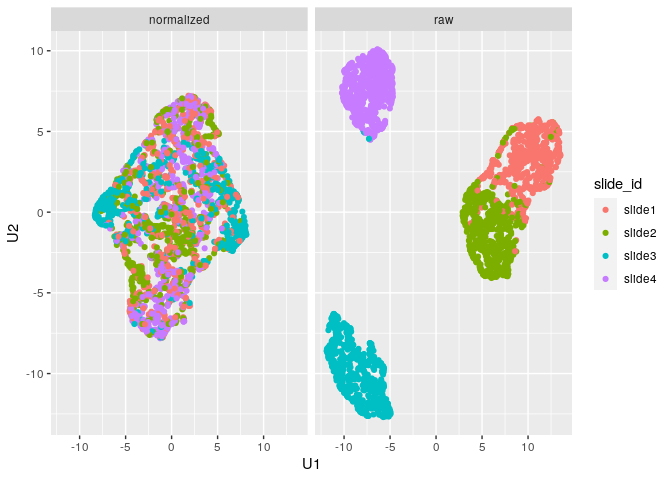
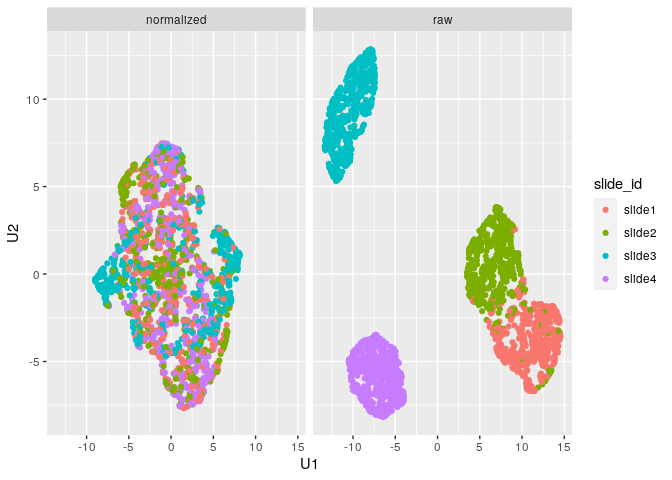
finished fixes for CRAN

diff --git a/README.md b/README.md
@@ -13,7 +13,9 @@
 
 A package designed to handle multiplexed imaging data in R, implementing
 normalization methods and quality metrics detailed in our paper
-[here](https://doi.org/10.1101/2021.07.16.452359).
+[here](https://doi.org/10.1101/2021.07.16.452359). Further information
+about the package, usage, the vignettes, and more can be found on
+[CRAN](https://cran.r-project.org/package=mxnorm).
 
 # Installation
 
@@ -56,7 +58,7 @@ mx_dataset = mx_dataset(data=mx_sample,
                         metadata_cols=c("metadata1_vals"))
 ```
 
-WE can use the built-in `summary()` function to observe `mx_dataset`
+We can use the built-in `summary()` function to observe `mx_dataset`
 object:
 
 ``` r
@@ -75,20 +77,7 @@ mx_norm = mx_normalize(mx_data = mx_dataset,
                        method="None")
 ```
 
-The `mx_dataset` object has normalized data in the following form:
-
-``` r
-head(mx_norm$norm_data)
-#>   slide_id image_id marker1_vals marker2_vals marker3_vals metadata1_vals
-#> 1   slide1   image1    0.1991146    0.1553918   0.18315112            yes
-#> 2   slide1   image1    0.1082691    0.2294791   0.21339780             no
-#> 3   slide1   image1    0.1328231    0.1389272   0.11549488            yes
-#> 4   slide1   image1    0.1082691    0.1865590   0.23245192            yes
-#> 5   slide1   image1    0.1328231    0.2156384   0.13923749            yes
-#> 6   slide1   image1    0.1082691    0.1553918   0.07725425            yes
-```
-
-And we can use `summary()` to capture the following attributes for the
+And we again use `summary()` to capture the following attributes for the
 `mx_dataset` object:
 
 ``` r
@@ -119,48 +108,25 @@ mx_otsu = run_otsu_discordance(mx_norm,
                         plot_out = FALSE)
 ```
 
-This adds an Otsu misclassification table to the `mx_dataset` object in
-the following form:
+We can also begin to visualize these results using some of `mxnorm`’s
+plotting features built using `ggplot2`.
+
+First, we can visualize the densities of the marker values as follows:
 
 ``` r
-head(mx_otsu$otsu_data)
-#>   slide_id       marker table slide_threshold marker_threshold
-#> 1   slide1 marker1_vals   raw        12.01758         54.89844
-#> 2   slide2 marker1_vals   raw        20.01367         54.89844
-#> 3   slide3 marker1_vals   raw        87.05664         54.89844
-#> 4   slide4 marker1_vals   raw        44.00391         54.89844
-#> 5   slide1 marker2_vals   raw        19.00977         52.90039
-#> 6   slide2 marker2_vals   raw        19.99219         52.90039
-#>   discordance_score
-#> 1         0.4506667
-#> 2         0.4306667
-#> 3         0.2573333
-#> 4         0.3386667
-#> 5         0.5333333
-#> 6         0.5320000
+plot_mx_density(mx_otsu)
 ```
 
-And we can use `summary()` to capture the following attributes for the
-`mx_dataset` object:
+<img src="man/figures/README-mx_dens-1.png" width="100%" />
+
+We can also visualize the results of the Otsu misclassification analysis
+stratified by slide and marker:
 
 ``` r
-summary(mx_otsu)
-#> Call:
-#> `mx_dataset` object with 4 slide(s), 3 marker column(s), and 1 metadata column(s)
-#> 
-#> Normalization:
-#> Data normalized with transformation=`log10_mean_divide` and method=`None`
-#> 
-#> Anderson-Darling tests:
-#>       table mean_test_statistic mean_std_test_statistic mean_p_value
-#>  normalized              34.565                  24.111            0
-#>         raw              32.490                  22.525            0
-#> 
-#> Threshold discordance scores:
-#>       table mean_discordance sd_discordance
-#>  normalized            0.054          0.071
-#>         raw            0.373          0.141
+plot_mx_discordance(mx_otsu)
 ```
+
+<img src="man/figures/README-mx_misc-1.png" width="100%" />
 
 ## UMAP dimension reduction with `run_reduce_umap()`
 
@@ -177,54 +143,26 @@ mx_umap = run_reduce_umap(mx_otsu,
                         metadata_col = "metadata1_vals")
 ```
 
-This adds UMAP dimensions to our `mx_dataset` object in the following
-form (note the inclusion of `slide_id` as an identifier, which we’ll use
-later):
+We can further visualize the results of the UMAP dimension reduction as
+follows:
 
 ``` r
-head(mx_umap$umap_data)
-#>      marker1_vals marker2_vals marker3_vals metadata1_vals slide_id table
-#> 2586           43           85           97            yes   slide4   raw
-#> 2616           39           72           63             no   slide4   raw
-#> 1504           93           97           63            yes   slide3   raw
-#> 1509           93           95           25             no   slide3   raw
-#> 2032           91           93           51            yes   slide3   raw
-#> 870            18           26           32            yes   slide2   raw
-#>              U1         U2
-#> 2586  -7.537530   9.394702
-#> 2616  -6.266718   5.396670
-#> 1504 -10.915295  -8.767233
-#> 1509  -5.559124 -12.020211
-#> 2032  -9.367096 -10.209445
-#> 870    3.689826  -2.340548
+plot_mx_umap(mx_umap,metadata_col = "metadata1_vals")
 ```
 
-And we can use `summary()` to capture the following attributes for the
-`mx_dataset` object:
+<img src="man/figures/README-mx_umap-1.png" width="100%" />
+
+Note that since the sample data is simulated, we don’t see separation of
+the groups like we would expect with biological samples that have some
+underlying correlation. What we can observe, however, is the separation
+of slides in the `raw` data and subsequent mixing of these slides in the
+`normalized` data:
 
 ``` r
-summary(mx_umap)
-#> Call:
-#> `mx_dataset` object with 4 slide(s), 3 marker column(s), and 1 metadata column(s)
-#> 
-#> Normalization:
-#> Data normalized with transformation=`log10_mean_divide` and method=`None`
-#> 
-#> Anderson-Darling tests:
-#>       table mean_test_statistic mean_std_test_statistic mean_p_value
-#>  normalized              34.565                  24.111            0
-#>         raw              32.490                  22.525            0
-#> 
-#> Threshold discordance scores:
-#>       table mean_discordance sd_discordance
-#>  normalized            0.054          0.071
-#>         raw            0.373          0.141
-#> 
-#> Clustering consistency (UMAP):
-#>       table adj_rand_index cohens_kappa
-#>  normalized          0.058        0.063
-#>         raw          0.627       -0.151
+plot_mx_umap(mx_umap,metadata_col = "slide_id")
 ```
+
+<img src="man/figures/README-mx_umap_slide-1.png" width="100%" />
 
 ## Variance components analysis with `run_var_proportions()`
 
@@ -236,20 +174,6 @@ the slide level, as follows:
 mx_var = run_var_proportions(mx_umap,
                              table="both",
                              metadata_cols = "metadata1_vals")
-```
-
-This adds UMAP dimensions to our `mx_dataset` object in the following
-form:
-
-``` r
-head(mx_var$var_data)
-#>    proportions    level       marker table
-#> 1:  0.97044681    slide marker1_vals   raw
-#> 2:  0.02955319 residual marker1_vals   raw
-#> 3:  0.97344941    slide marker2_vals   raw
-#> 4:  0.02655059 residual marker2_vals   raw
-#> 5:  0.87733930    slide marker3_vals   raw
-#> 6:  0.12266070 residual marker3_vals   raw
 ```
 
 And we can use `summary()` to capture the following attributes for the
@@ -275,57 +199,14 @@ summary(mx_var)
 #> 
 #> Clustering consistency (UMAP):
 #>       table adj_rand_index cohens_kappa
-#>  normalized          0.058       -0.115
-#>         raw          0.874       -0.263
+#>  normalized          0.063       -0.055
+#>         raw          0.629       -0.174
 #> 
 #> Variance proportions (slide-level):
 #>       table  mean    sd
 #>  normalized 0.001 0.001
 #>         raw 0.940 0.055
 ```
-
-# Visualizations
-
-We can also begin to visualize these results using some of `mxnorm`’s
-plotting features built using `ggplot2`.
-
-First, we can visualize the densities of the marker values as follows:
-
-``` r
-plot_mx_density(mx_otsu)
-```
-
-<img src="man/figures/README-mx_dens-1.png" width="100%" />
-
-We can also visualize the results of the Otsu misclassification analysis
-stratified by slide and marker:
-
-``` r
-plot_mx_discordance(mx_otsu)
-```
-
-<img src="man/figures/README-mx_misc-1.png" width="100%" />
-
-We can further visualize the results of the UMAP dimension reduction as
-follows:
-
-``` r
-plot_mx_umap(mx_umap,metadata_col = "metadata1_vals")
-```
-
-<img src="man/figures/README-mx_umap-1.png" width="100%" />
-
-Note that since the sample data is simulated, we don’t see separation of
-the groups like we would expect with biological samples that have some
-underlying correlation. What we can observe, however, is the separation
-of slides in the `raw` data and subsequent mixing of these slides in the
-`normalized` data:
-
-``` r
-plot_mx_umap(mx_umap,metadata_col = "slide_id")
-```
-
-<img src="man/figures/README-mx_umap_slide-1.png" width="100%" />
 
 And we can also visualize the results of the variance proportions after
 normalization:
